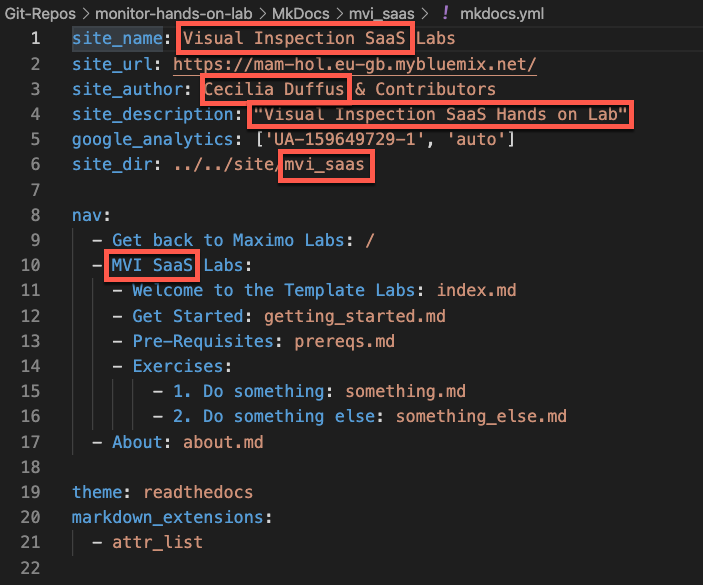
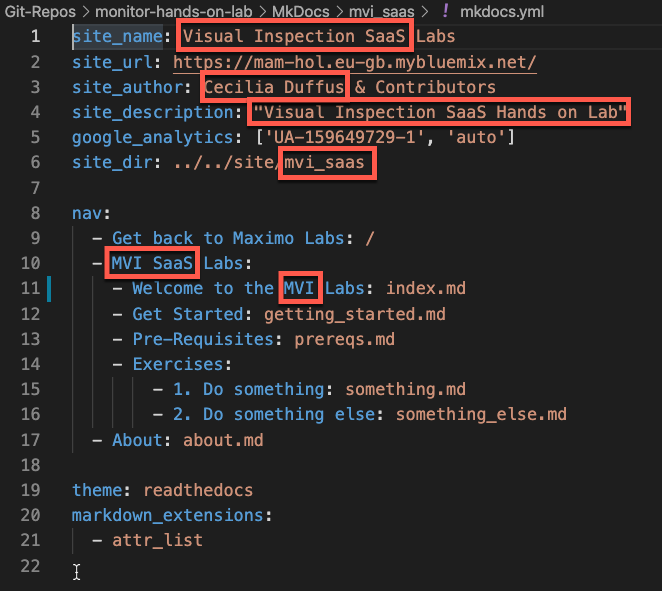
Create new lab is ready.

diff --git a/MkDocs/contribute/docs/create_new.md b/MkDocs/contribute/docs/create_new.md
@@ -1,6 +1,6 @@
 # Create new lab
 
- **THIS IS STILL WORK IN PROGRESS**
+ **THIS IS WORK IN PROGRESS**
 
 Creating a new lab follows the same process as under [Add content](../add_content)
 
@@ -13,9 +13,9 @@ the other steps are the same.
 
 ## Make changes
 
-The following steps are used to crate a new lab based on the provided [template](../../template_1.0)
+The following steps are used to crate a new lab based on the provided [template](/template_1.0)
 
-### Replicate Template to your lab
+### 1. Replicate Template to your lab
 
 Select the `template_1.0` folder
 ![Select template folder](/img/contribute/copy_template_1.png)
@@ -28,10 +28,16 @@ e.g. `mvi_saas`
 ![Rename template folder](/img/contribute/copy_template_3.png)
 
 Also rename the folder under `img/template_1.0` using the same name lab name,  
-e.g. `img/mvi_saas`. It is important that this structure is kept consistent cross all labs in order to easily build and deploy the complete set of labs.
+e.g. `img/mvi_saas`. 
 ![Rename img/template folder](/img/contribute/copy_template_4.png)
 
-### Modify the mkdocs.yml file
+*Note: It is important that this structure is kept consistent cross all labs in order to easily build and deploy the complete set of labs.* 
+
+Save the file.
+
+### 2. Modify the mkdocs.yml file
+
+The `mkdocs.yml`file holds the configuration of the new lab, i.e. some generic information about the new lab, like location of where the site will be created during the build and also which .md (markdown) files it consist of based on the navigation information.  
 
 Select and open the `mkdocs.yml` file located in the root of you new lab folder
 ![Select mkdocs.yml](/img/contribute/edit_mkdocs.yml_1.png)
@@ -42,12 +48,86 @@ Edit the marked areas suitable for your new lab
 Which could look like this
 ![Edit mkdocs.yml](/img/contribute/edit_mkdocs.yml_3.png)
 
+*Note: The `nav:` definition holds the navigation menu for the new lab. It is only the `index.md` and `about.md` that need to have some mandatory information explained below. The rest of the markdown files and navigation menu is defined by the way the lab is structured and how many exercises it consist of.* 
+
 Save the file.
 
-### Build and verify your lab content
+### 3. Modify the index.md file
 
-In the terminal navigate to the root of this git repo and execute the build script:
+The `index.md` file is the landing / welcome page for the new lab.  
+
+Select and open the `index.md` file located in the `docs` folder of you new lab
+![Select index.md](/img/contribute/edit_index_1.png)
+
+Edit the file and make sure to change the marked areas suitable for your new lab
+![Edit index.md](/img/contribute/edit_index_2.png)
+
+Which could look like this
+![Edit index.md](/img/contribute/edit_index_3.png)
+
+*Note: Remember to update the `Updated` to current date once the new lab is ready.* 
+
+Save the file.
+
+### 4. Modify the about.md file
+
+The `about.md` file contains a list of the contributors to this lab as well as the Change Information.  
+
+Select and open the `about.md` file located in the `docs` folder of you new lab
+![Select about.md](/img/contribute/edit_about_1.png)
+
+Edit the file and make sure to change the marked areas suitable for your new lab
+![Edit about.md](/img/contribute/edit_about_2.png)
+
+Which could look like this
+![Edit about.md](/img/contribute/edit_about_3.png)
+
+*Note: Please update both sections when the lab is ready.* 
+
+Save the file.
+
+### 5. Add the new lab to the build script
+
+First we need to update the `build_all_mkdocs.sh` file located in the root of the `monitor-hands-on-lab` folder.
+This file contains the shell script for building the entire IBM Maximo Labs static web site.  
+
+Select and open the `build_all_mkdocs.sh` file
+![Select build_all_mkdocs.sh](/img/contribute/edit_build_1.png)
+
+Scroll bown to find `# Build the template level:`
+![Edit build_all_mkdocs.sh](/img/contribute/edit_build_2.png)
+
+Copy the section and paste it above the `#### DON't CHANGE THE BELOW MANDATORY...` line. Change the comment and the `lab=` variable to match the folder of the new lab.
+![Edit build_all_mkdocs.sh](/img/contribute/edit_build_3.png)
+
+*Note: Please don't change anything else.* 
+
+Save the file.
+
+### 6. Build and verify your lab content
+
+In a terminal navigate to the root of this git repo and execute the build script:
 
     $ ./build_all_mkdocs.sh
 
-Open the browser and navigate to [http://localhost:8080/](http://localhost:8080/) in order to verify that your changes look as expected. Hint: press control-c to stop the web server and get back to the prompt.
+It could look like this:
+![Edit build_all_mkdocs.sh](/img/contribute/edit_build_4.png)
+
+Wait until it has finished building the whole site.
+![Edit build_all_mkdocs.sh](/img/contribute/edit_build_5.png)
+
+Open a browser and navigate to [http://localhost:8080/](http://localhost:8080/) in order to verify that the build was successful.  
+![Edit build_all_mkdocs.sh](/img/contribute/edit_build_6.png)
+
+If the new lab has not yet been added to the `index.md` in the `toplevel` page, then navigate directly to the new lab [http://localhost:8080/mvi_saas](http://localhost:8080/mvi_ssas) in order to verify that your changes look as expected.  
+![Edit build_all_mkdocs.sh](/img/contribute/edit_build_7.png)
+
+Congratulations, you have now created the foundation for the new lab following the structure and consistensy of the entire IBM Maximo Labs site.
+
+Now you "only" need to add all the content to the foundation, by adding markdown files and images according to the structure.  
+
+Re-run this step until the new lab contains what you expect.
+
+*Hint: press control-c to stop the web server and get back to the prompt.*
+
+*Note: It is good practise to commit your changes once the foundation is in place - and again when you have created or updated every markdown files in the exercise.*

diff --git a/MkDocs/toplevel/docs/index.md b/MkDocs/toplevel/docs/index.md
@@ -3,20 +3,20 @@
 In these hands-on labs you will learn how to get started with the different products that are available in the IBM Maximo portfolio.<br>
 Look under the appropriate version below to find the labs you are looking for.
 
-|&nbsp;&nbsp;&nbsp;&nbsp;&nbsp; ![Ready: ](/img/ready.png) Ready to use &nbsp;&nbsp;&nbsp;&nbsp;&nbsp;|&nbsp;&nbsp;&nbsp;&nbsp;&nbsp; ![Under Construction: ](/img/under_construction.png) Under construction &nbsp;&nbsp;&nbsp;&nbsp;&nbsp;|&nbsp;&nbsp;&nbsp;&nbsp;&nbsp; ![Not Started: ](/img/not_started.png) Not started &nbsp;&nbsp;&nbsp;&nbsp;&nbsp;|  
+|&nbsp;&nbsp;&nbsp;&nbsp;&nbsp; ![Ready: ](/img/ready.png) Ready to use &nbsp;&nbsp;&nbsp;&nbsp;&nbsp;|&nbsp;&nbsp;&nbsp;&nbsp;&nbsp; ![Under Construction: ](/img/under_construction.png) Under development &nbsp;&nbsp;&nbsp;&nbsp;&nbsp;|&nbsp;&nbsp;&nbsp;&nbsp;&nbsp; ![Not Started: ](/img/not_started.png) Not started &nbsp;&nbsp;&nbsp;&nbsp;&nbsp;|  
 
 ---
-### SaaS Labs
+### SaaS
 ![Ready: ](/img/ready.png) [IBM Maximo Asset Monitor (SaaS)](/monitor_saas/)  
 ![Not Started: ](/img/not_started.png) [IBM Maximo Visual Inspection (SaaS)](/mvi_saas/)  
 
 
-### MAS 8.2 Labs
+### Maximo Application Suite 8.2
 ![Under Construction: ](/img/under_construction.png) [IBM Maximo Monitor (MAS 8.2)](/monitor_8.2/)  
 ![Not Started: ](/img/not_started.png) [IBM Maximo Visual Inspection (MAS 8.2)](/mvi_8.2/)  
-![Not Started: ](/img/not_started.png) [IBM Maximo Health (MAS 8.2)](/health_8.2/)  
+![Not Started: ](/img/not_started.png) [IBM Maximo Health (MAS 8.1)](/health_8.2/)  
 
-### MAS 8.3 Labs
+### Maximo Application Suite 8.3
 ![Not Started: ](/img/not_started.png) [IBM Maximo Manage (MAS 8.3)](/manage_8.3/)  
 ![Not Started: ](/img/not_started.png) [IBM Maximo Health (MAS 8.3)](/healt_8.3/)  
 ![Not Started: ](/img/not_started.png) [IBM Maximo Predict (MAS 8.3)](/predict_8.3/)  
@@ -24,9 +24,8 @@ Look under the appropriate version below to find the labs you are looking for.
 
 ### Faststart 2021 Labs
 
-![Not Started: ](/img/not_started.png) [IBM Maximo Monitor (FS21)](/monitor_fs21/)  
+![Not Started: ](/img/not_started.png) [IBM Maximo Monitor, Health & Predict (FS21)](/apm_fs21/)  
 ![Not Started: ](/img/not_started.png) [IBM Maximo Visual Inspection (FS21)](/mvi_fs21/)  
-![Not Started: ](/img/not_started.png) [IBM Maximo Health & Predict (FS21)](/health-predict_fs21/)  
 
 
 ENJOY :-)

diff --git a/MkDocs/mvi_saas/docs/about.md b/MkDocs/mvi_saas/docs/about.md
@@ -1,7 +1,7 @@
 
-# Contributors to IBM Maximo Template
+# Contributors to IBM Maximo Visual Inspection Labs
 
-- Jan Ekstrøm - <jan.ekstrom@dk.ibm.com>
+- Cecilia Duffus - cecilia.d@ibm.com
 
 ---
 
@@ -9,7 +9,6 @@
 
 |Date     |By             | Description                                           |
 |:--------|:--------------|:------------------------------------------------------|
-|2021-01-04|Jan Ekstrøm|Added the About page and Updated information into Index. |
-|2020-12-30|Jan Ekstrøm|First step on the Template section. |
+|2021-01-05|Cecilia Duffus|First version of the Maximo Visual Inspection (SaaS) labs. |
 
 ---

diff --git a/MkDocs/contribute/docs/about.md b/MkDocs/contribute/docs/about.md
@@ -9,7 +9,7 @@
 
 |Date     |By             | Description                                           |
 |:--------|:--------------|:------------------------------------------------------|
-|2021-01-04|Jan Ekstrøm|Added the About page and Updated information into Index. |
+|2021-01-04|Jan Ekstrøm|Added the About page, Updated information into Index, and the Create new lab page. |
 |2021-01-03|Jan Ekstrøm|Created the Add Content page. Moved Deploy to its own page.|
 |2020-12-31|Jan Ekstrøm|First step on the Contribute section based on the old Contribute but split into separate pages: Welcome, Get started and Pre-Reqs. |
 

diff --git a/MkDocs/mvi_saas/docs/index.md b/MkDocs/mvi_saas/docs/index.md
@@ -1,4 +1,4 @@
-# Welcome to the IBM Maximo Template Lab<br>(Version: 1.0)
+# Welcome to the IBM Maximo Visual Inspection Lab<br>(Version: SaaS)
 You will learn about Template's capabilities to:
 
 * One thing
@@ -9,6 +9,6 @@ Maximo Template product information goes here.
 
 ---
 
-**Updated: 2021-01-04**
+**Updated: 2021-01-05**
 
 ---
